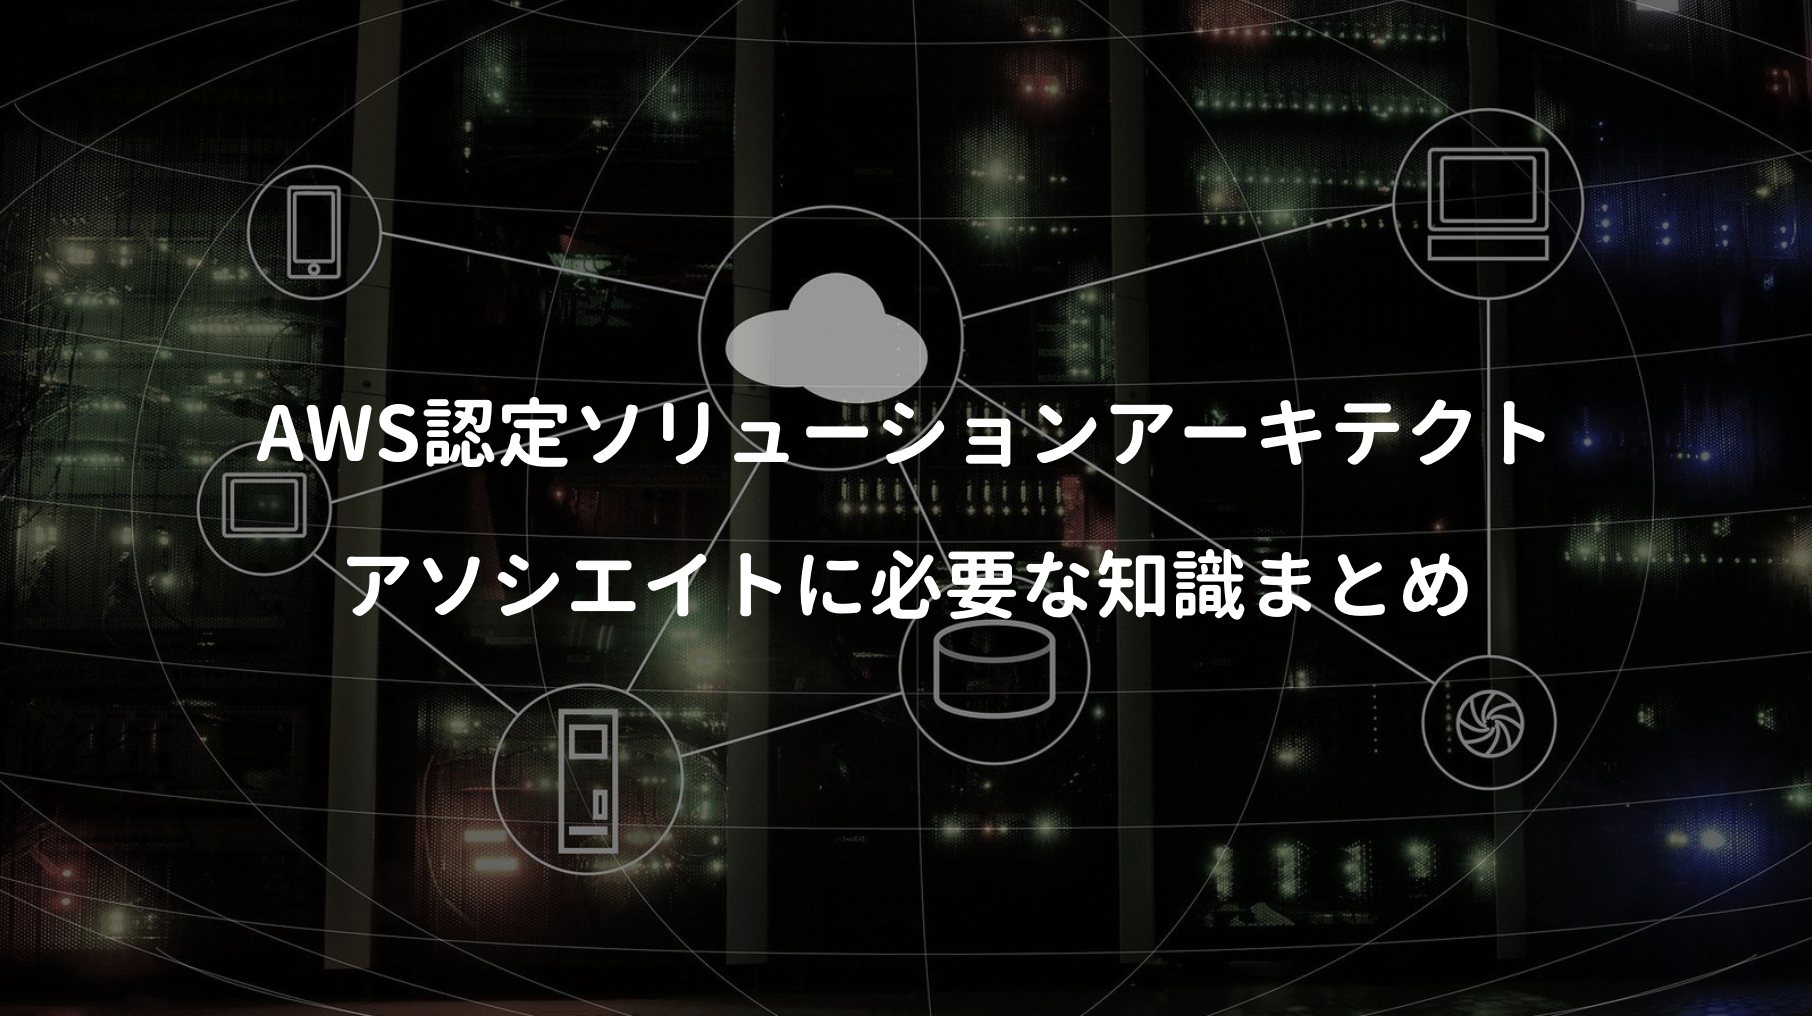
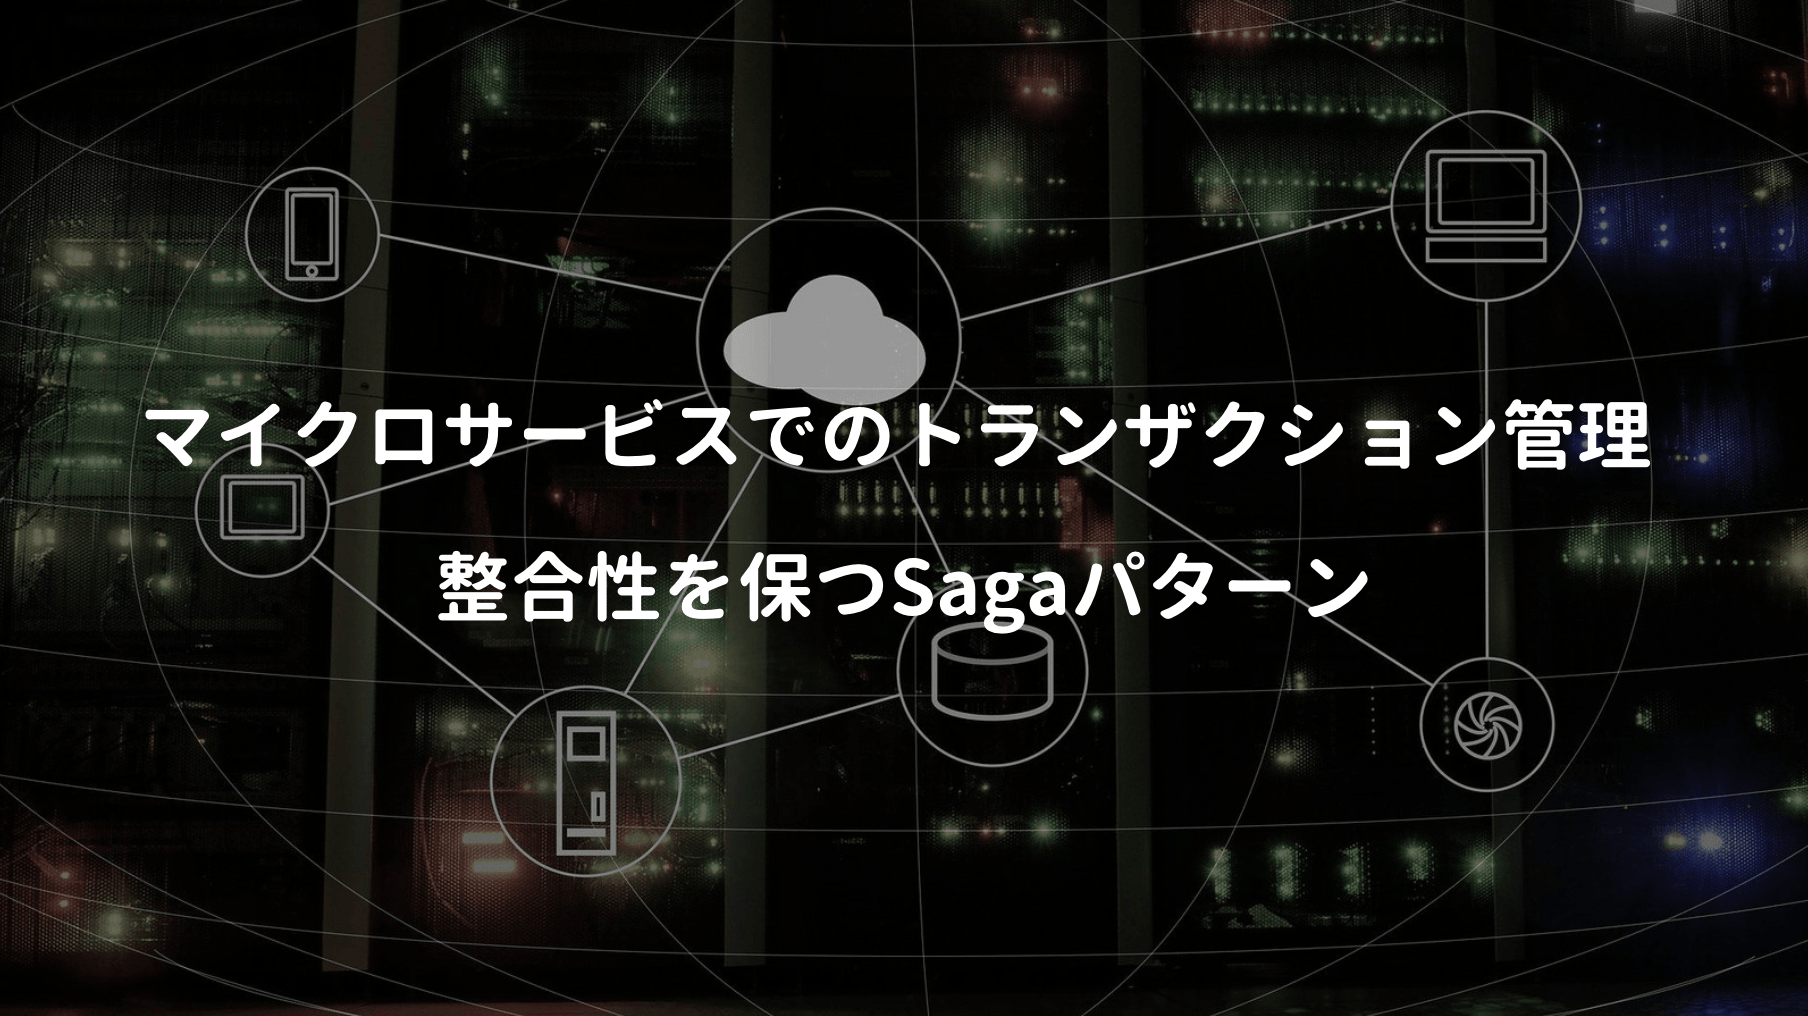
update posts

diff --git a/content/blog/post-34/index.md b/content/blog/post-34/index.md
@@ -1,38 +1,77 @@
 ---
-title: AWS認定ソリューションアーキテクト - アソシエイトに必要な知識まとめ
-date: "2020-04-09T00:00:00.284Z"
-description: ""
+title: マイクロサービスでのトランザクション管理 整合性を保つSagaパターン
+date: "2020-04-10T00:00:00.284Z"
+description: "マイクロサービスを実現する上で頭を悩ませる要素の一つがトランザクション管理。一般的に分散トランザクション管理では、2相コミットでのトランザクション管理が思い浮かぶ。ただNoSQL系のテクノロジーや、一部のメッセージブローカー(RabbitMQ/Apache Kafka)ではサポートされておらず、またスケーラビリティを大きく損なうので、本書ではSagaパターンが紹介されていた。"
 pagetype: "category"
-perma: "aws-architect-associate"
+perma: "microservice-transaction"
 categoryname: "テクノロジー"
 categoryslug: "technology"
-tags: ["AWS", "GAFA"]
+tags: ["AWS", "GAFA", "DX", "マイクロサービス"]
 thumbnail: post-34.png
 ---
 
 ![](./post-34.png)
 
-## 
+マイクロサービスを実現する上で悩みの種の一つがトランザクション管理。
 
-## 
+モノリスでのトランザクション管理なら話は単純だが、マイクロサービスのように複数のデータベースで分割管理する場合、SQSなどメッセージキューを利用した複雑なトランザクション管理を迫られる。
 
-## 
+一般的な分散トランザクション管理では、2相コミットが思い浮かぶ。ただしNoSQL系のテクノロジーや、一部のメッセージブローカー(RabbitMQ/Apache Kafka)ではサポートされておらず、スケーラビリティを大きく損なうことから、本書ではSagaパターンが紹介されていた。
 
-## 
+<div class="cstmreba"><div class="booklink-box"><div class="booklink-image"><a href="https://hb.afl.rakuten.co.jp/hgc/146fe51c.1fd043a3.146fe51d.605dc196/yomereba_main_202004051411239735?pc=http%3A%2F%2Fbooks.rakuten.co.jp%2Frb%2F16239274%2F%3Fscid%3Daf_ich_link_urltxt%26m%3Dhttp%3A%2F%2Fm.rakuten.co.jp%2Fev%2Fbook%2F" target="_blank" ><img src="https://thumbnail.image.rakuten.co.jp/@0_mall/book/cabinet/8583/9784295008583.jpg?_ex=160x160" style="border: none;" /></a></div><div class="booklink-info"><div class="booklink-name"><a href="https://hb.afl.rakuten.co.jp/hgc/146fe51c.1fd043a3.146fe51d.605dc196/yomereba_main_202004051411239735?pc=http%3A%2F%2Fbooks.rakuten.co.jp%2Frb%2F16239274%2F%3Fscid%3Daf_ich_link_urltxt%26m%3Dhttp%3A%2F%2Fm.rakuten.co.jp%2Fev%2Fbook%2F" target="_blank" >マイクロサービスパターン</a><div class="booklink-powered-date">posted with <a href="https://yomereba.com" rel="nofollow" target="_blank">ヨメレバ</a></div></div><div class="booklink-detail">クリス・リチャードソン/長尾高弘 インプレス 2020年03月    </div><div class="booklink-link2"><div class="shoplinkrakuten"><a href="https://hb.afl.rakuten.co.jp/hgc/146fe51c.1fd043a3.146fe51d.605dc196/yomereba_main_202004051411239735?pc=http%3A%2F%2Fbooks.rakuten.co.jp%2Frb%2F16239274%2F%3Fscid%3Daf_ich_link_urltxt%26m%3Dhttp%3A%2F%2Fm.rakuten.co.jp%2Fev%2Fbook%2F" target="_blank" >楽天ブックス</a></div><div class="shoplinkamazon"><a href="https://www.amazon.co.jp/exec/obidos/asin/4295008583/kanon123-22/" target="_blank" >Amazon</a></div><div class="shoplinkkindle"><a href="https://www.amazon.co.jp/gp/search?keywords=%E3%83%9E%E3%82%A4%E3%82%AF%E3%83%AD%E3%82%B5%E3%83%BC%E3%83%93%E3%82%B9%E3%83%91%E3%82%BF%E3%83%BC%E3%83%B3&__mk_ja_JP=%83J%83%5E%83J%83i&url=node%3D2275256051&tag=kanon123-22" target="_blank" >Kindle</a></div>                              	  	  	  	  	</div></div><div class="booklink-footer"></div></div></div>
 
-## 
 
-## 
+Sagaパターンでは、非同期メッセージングでサービス間を連携させる。そのため <span style="color: crimson; font-weight: bold;">処理途中で失敗した場合には更新処理を取り消す必要があり、補償トランザクションを用意しておかなければならない。</span>
 
-## 参考文献
+ちなみにSagaパターンでは、ACIDのI(分離性)を犠牲にした結果整合性モデルになる。補償トランザクションでは、打ち消す処理を提供するサービスと、それを呼び出すサービスの双方に負担がかかり、ビジネスロジックの設計が難しくなりがちなので、本当に実践レベルで使えるのかは怪しいけど、マイクロサービスでの分散データベース設計にお悩みの方には参考になるとは思う。
 
-■ [AWSドキュメント](https://docs.aws.amazon.com/index.html)  
-■ [AWSサービス別資料](https://aws.amazon.com/jp/aws-jp-introduction/aws-jp-webinar-service-cut/)  
-■ [AWS金額算出](https://calculator.s3.amazonaws.com/index.html)  
-■ [builders.flash](https://aws.amazon.com/jp/builders-flash/)  
-■ [Developers.IO](https://dev.classmethod.jp/)  
-■ [AWS Well-Architected フレームワーク](https://d1.awsstatic.com/International/ja_JP/Whitepapers/AWS_Well-Architected_Framework_2018_JA_final.pdf)  
-■ [AWSセキュリティのベストプラクティス](https://d1.awsstatic.com/whitepapers/ja_JP/Security/AWS_Security_Best_Practices.pdf)  
-■ [AWSにおける継続的インテグレーションと継続的デリバリーの実践](https://d1.awsstatic.com/International/ja_JP/Whitepapers/practicing-continuous-integration-continuous-delivery-on-AWS_JA_final.pdf)  
-■ [AWSにおけるマイクロサービス](https://d1.awsstatic.com/International/ja_JP/Whitepapers/MicroservicesOnAWS-V2_NT0829_SMO_MJ_EditSM_ProofSM_ProofNT.pdf)  
-■ [AWSにおけるクラウドネイティブ モダンアプリケーション開発と設計パターン](https://d1.awsstatic.com/whitepapers/ja_JP/modern-application-development-on-aws.pdf)  
+## パターン1 - コレオグラフィ
+
+**コレオグラフィ** はサーガの参加サービスに、次ステップの判断を委ねる判断管理の方法。
+
+必要な情報を全て含んだ最初のイベントを1つのメッセージに保存し、最初のトランザクションは完了。その後は各サービスが非同期的にメッセージを取得し、それぞれのタスクを実行していく。
+
+![](./post-34-1.png)
+
+イベントをPub/Subするだけなので、コレオグラフィの利点には <span style="color: crimson; font-weight: bold;">サービス間の疎結合実現</span> が挙げられる。逆に欠点として、サービス間にサーガが分散されて分かりづらい点が挙げられる。本書では単純なサーガなら上手く機能するけど、複雑なサービスではオーケストレーションを推奨している。
+
+ちなみにAWSでの実現では Kinesis + Lambda or SQS + SNS + Lambdaの組合せが考えられる。
+
+![](./post-34-2.png)
+
+
+## パターン2 - オーケストレーション
+
+オライリー書籍の方がシンプルに説明されている気がする。
+
+例として顧客サービスというオーケストレーターが、一連のサービス(ロイヤリティポイントサービス/メールサービス/郵送サービス)をリクエスト/レスポンス呼び出しで行っている。
+
+<div class="cstmreba"><div class="booklink-box"><div class="booklink-image"><a href="https://hb.afl.rakuten.co.jp/hgc/146fe51c.1fd043a3.146fe51d.605dc196/yomereba_main_202003271340390723?pc=http%3A%2F%2Fbooks.rakuten.co.jp%2Frb%2F13770161%2F%3Fscid%3Daf_ich_link_urltxt%26m%3Dhttp%3A%2F%2Fm.rakuten.co.jp%2Fev%2Fbook%2F" target="_blank" rel="noopener noreferrer"><img src="https://thumbnail.image.rakuten.co.jp/@0_mall/book/cabinet/7607/9784873117607.jpg?_ex=160x160" style="border: none;" /></a></div><div class="booklink-info"><div class="booklink-name"><a href="https://hb.afl.rakuten.co.jp/hgc/146fe51c.1fd043a3.146fe51d.605dc196/yomereba_main_202003271340390723?pc=http%3A%2F%2Fbooks.rakuten.co.jp%2Frb%2F13770161%2F%3Fscid%3Daf_ich_link_urltxt%26m%3Dhttp%3A%2F%2Fm.rakuten.co.jp%2Fev%2Fbook%2F" target="_blank" rel="noopener noreferrer">マイクロサービスアーキテクチャ</a><div class="booklink-powered-date">posted with <a href="https://yomereba.com" rel="nofollow noopener noreferrer" target="_blank">ヨメレバ</a></div></div><div class="booklink-detail">SamNewman/佐藤直生 オライリー・ジャパン 2016年02月26日    </div><div class="booklink-link2"><div class="shoplinkrakuten"><a href="https://hb.afl.rakuten.co.jp/hgc/146fe51c.1fd043a3.146fe51d.605dc196/yomereba_main_202003271340390723?pc=http%3A%2F%2Fbooks.rakuten.co.jp%2Frb%2F13770161%2F%3Fscid%3Daf_ich_link_urltxt%26m%3Dhttp%3A%2F%2Fm.rakuten.co.jp%2Fev%2Fbook%2F" target="_blank" rel="noopener noreferrer">楽天ブックス</a></div><div class="shoplinkamazon"><a href="https://www.amazon.co.jp/exec/obidos/asin/4873117607/kanon123-22/" target="_blank" rel="noopener noreferrer">Amazon</a></div><div class="shoplinkkindle"><a href="https://www.amazon.co.jp/gp/search?keywords=%E3%83%9E%E3%82%A4%E3%82%AF%E3%83%AD%E3%82%B5%E3%83%BC%E3%83%93%E3%82%B9%E3%82%A2%E3%83%BC%E3%82%AD%E3%83%86%E3%82%AF%E3%83%81%E3%83%A3&__mk_ja_JP=%83J%83%5E%83J%83i&url=node%3D2275256051&tag=kanon123-22" target="_blank" rel="noopener noreferrer">Kindle</a></div>                              	  	  	  	  	</div></div><div class="booklink-footer"></div></div></div>
+
+書籍(マイクロサービスパターン)では、複雑なサービスではオーケストレーションの利用が推奨されているけど、オーケストレーターが中央集権化しやすく、少数の賢い神クラスになりがちな欠点が挙げられる。コレオグラフィの方がより疎結合を実現できるし、マイクロサービスっぽいので、オライリー本ではコレオグラフィ推しな印象。
+
+## ACID特性と分散トランザクション
+
+データベースでは、信頼性のあるトランザクションシステムの持つべき性質に <span style="color: crimson; font-weight: bold;">ACID特性</span> がある。
+
+<div class="blackboard-box">
+<p>■ 原子性（ Atomicity ）</p>
+<p>トランザクションが完全に実行されるか、全く実行されないかの2通りの結果しか持たない.</p>
+<p>ex) 引き出し作業と振り込み作業の片方が失敗するともう片方も失敗しなければならない.</p>
+<br/>
+<p>■ 一貫性（ Consistency ）</p>
+<p>アクセスするデータは、ある有効な状態から別の有効な状態に変換されなければならない.</p>
+<p>ex) 引き出し作業によって引き出された金額と、振り込み作業によって振り込まれた金額は同じにならなければならない.</p>
+<br/>
+<p>■ 分離性（ Isolation ）</p>
+<p>トランザクション実行中は、それ自身が他から何の影響も受けず隔離されていなければならない.</p>
+<p>ex) 引き出し作業と振り込み作業を行っている最中に、別の作業が影響を及ぼしてはいけない.</p>
+<br/>
+<p>■ 耐久性（ Durability ）</p>
+<p>どんな障害が発生してもトランザクション結果は永久に保障されていなければならない.</p>
+<p>ex) 引き出し作業と振り込み作業が正常であれ異常であれ完了したら、その結果が障害などによって失われてしまうことがあってはいけない.</p>
+<div class="chalk1"></div>
+<div class="chalk2"></div>
+</div>
+
+分散トランザクションの実現では2相コミットが考えられる。2相コミットでは、第一フェーズで各データベースに対してコミット可能な状態かを確認するprepare指示を行い、第二フェーズでは全データベースにcommit/rollback判定後に処理実施。本書でもXAに準拠したJTAが紹介されている。
